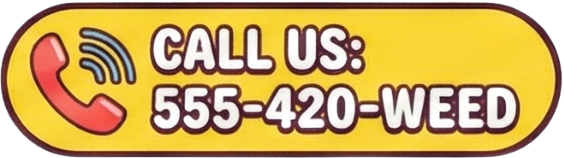
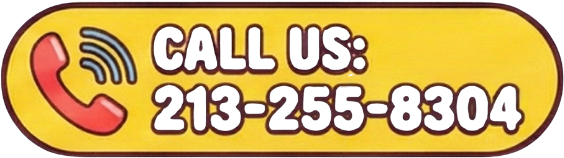
feat: update product prices and add SEO metadata
- Add new call2.png image asset
- Update prices for multiple products across categories
- Add comprehensive SEO metadata including OpenGraph and Twitter cards
- Update product names and availability status

diff --git a/index.html b/index.html
@@ -3,8 +3,38 @@
 <head>
     <meta charset="UTF-8">
     <meta name="viewport" content="width=device-width, initial-scale=1.0">
+
     <title>HAHA Bodega | Rare Products and Goods</title>
-    
+    <meta name="description" content="HAHA Bodega offers rare products and goods for adults 21+. Explore our menus and featured items." />
+    <link rel="canonical" href="https://hahabodega.com/" />
+    <meta name="robots" content="index,follow" />
+    <meta name="referrer" content="strict-origin-when-cross-origin" />
+    <meta name="theme-color" content="#0b1220" />
+
+    <meta property="og:type" content="website" />
+    <meta property="og:site_name" content="HAHA Bodega" />
+    <meta property="og:title" content="HAHA Bodega | Rare Products and Goods" />
+    <meta property="og:description" content="Rare products and goods for adults 21+. Explore menus and featured items at HAHA Bodega." />
+    <meta property="og:url" content="https://hahabodega.com/" />
+    <meta property="og:image" content="https://hahabodega.com/assets/images/logo2.png" />
+
+    <meta name="twitter:card" content="summary_large_image" />
+    <meta name="twitter:title" content="HAHA Bodega | Rare Products and Goods" />
+    <meta name="twitter:description" content="Rare products and goods for adults 21+. Explore menus and featured items at HAHA Bodega." />
+    <meta name="twitter:image" content="https://hahabodega.com/assets/images/logo2.png" />
+
+    <script type="application/ld+json">
+        {
+            "@context": "https://schema.org",
+            "@type": "Organization",
+            "name": "HAHA Bodega",
+            "url": "https://hahabodega.com/",
+            "logo": "https://hahabodega.com/assets/images/logo2.png"
+        }
+    </script>
+
+    <link rel="preconnect" href="https://fonts.googleapis.com">
+    <link rel="preconnect" href="https://fonts.gstatic.com" crossorigin>
     <link href="https://fonts.googleapis.com/css2?family=Chewy&family=Fredoka:wght@400;600&display=swap" rel="stylesheet">
     <link href="https://cdn.jsdelivr.net/npm/bootstrap@5.3.0/dist/css/bootstrap.min.css" rel="stylesheet">
     <link rel="stylesheet" href="https://cdnjs.cloudflare.com/ajax/libs/font-awesome/6.4.0/css/all.min.css">
@@ -124,7 +154,7 @@
                             <h4>Bluey Vuitton <span class="badge badge-indica">Crimson + Clover</span></h4>
                             <div class="product-meta">3.5g Dried Mushrooms</div>
                         </div>
-                        <div class="product-price">30</div>
+                        <div class="product-price">50</div>
                     </div>
 
                     <div class="product-item">
@@ -132,7 +162,7 @@
                             <h4>YETIS <span class="badge badge-indica">Crimson + Clover</span></h4>
                             <div class="product-meta">3.5g Dried Mushrooms</div>
                         </div>
-                        <div class="product-price">30</div>
+                        <div class="product-price">50</div>
                     </div>
 
                     <div class="product-item">
@@ -140,7 +170,7 @@
                             <h4>Microdose Capsules <span class="badge badge-hybrid">Crimson + Clover</span></h4>
                             <div class="product-meta">10 pcs (200mg ea)</div>
                         </div>
-                        <div class="product-price">30</div>
+                        <div class="product-price">50</div>
                     </div>
 
                     
@@ -176,33 +206,47 @@
                             </thead>
                             <tbody>
                                 <tr>
+                                    <td class="fw-bold text-start">Super Gelato</td>
+                                    <td class="flower-price">40</td>
+                                    <td class="flower-price">60</td>
+                                    <td class="flower-price">130</td>
+                                    <td class="flower-price">250</td>
+                                </tr>
+                                <tr>
+                                    <td class="fw-bold text-start">Vanilla Creamer</td>
+                                    <td class="flower-price">40</td>
+                                    <td class="flower-price">60</td>
+                                    <td class="flower-price">130</td>
+                                    <td class="flower-price">250</td>
+                                </tr>
+                                <tr>
+                                    <td class="fw-bold text-start">Blue Nerds</td>
+                                    <td class="flower-price">40</td>
+                                    <td class="flower-price">60</td>
+                                    <td class="flower-price">130</td>
+                                    <td class="flower-price">250</td>
+                                </tr>
+                                <tr>
+                                    <td class="fw-bold text-start">Von Dutch</td>
+                                    <td class="flower-price">40</td>
+                                    <td class="flower-price">60</td>
+                                    <td class="flower-price">130</td>
+                                    <td class="flower-price">250</td>
+                                <tr>
                                     <td class="fw-bold text-start">Pink Gelato</td>
                                     <td class="flower-price">40</td>
                                     <td class="flower-price">60</td>
-                                    <td class="flower-price">110</td>
-                                    <td class="flower-price">200</td>
+                                    <td class="flower-price">130</td>
+                                    <td class="flower-price">250</td>
                                 </tr>
                                 <tr>
-                                    <td class="fw-bold text-start">Bubble Gum Gelato</td>
+                                    <td class="fw-bold text-start">King Gelato OG</td>
                                     <td class="flower-price">40</td>
                                     <td class="flower-price">60</td>
-                                    <td class="flower-price">110</td>
-                                    <td class="flower-price">200</td>
+                                    <td class="flower-price">130</td>
+                                    <td class="flower-price">250</td>
                                 </tr>
-                                <tr>
-                                    <td class="fw-bold text-start">Louis 13th OG</td>
-                                    <td class="flower-price">40</td>
-                                    <td class="flower-price">60</td>
-                                    <td class="flower-price">110</td>
-                                    <td class="flower-price">200</td>
-                                </tr>
-                                <tr>
-                                    <td class="fw-bold text-start">Super Duper Lemon Cherry</td>
-                                    <td class="flower-price">40</td>
-                                    <td class="flower-price">60</td>
-                                    <td class="flower-price">110</td>
-                                    <td class="flower-price">200</td>
-                                </tr>
+                                
                             </tbody>
                         </table>
                     </div>
@@ -223,30 +267,37 @@
                                 <tr>
                                     <td class="fw-bold text-start">Black Runtz</td>
                                     <td class="flower-price">30</td>
-                                    <td class="flower-price">40</td>
-                                    <td class="flower-price">70</td>
-                                    <td class="flower-price">120</td>
+                                    <td class="flower-price">50</td>
+                                    <td class="flower-price">80</td>
+                                    <td class="flower-price">150</td>
                                 </tr>
                                 <tr>
                                     <td class="fw-bold text-start">Gushers</td>
-                                    <td class="flower-price">30</td>
-                                    <td class="flower-price">40</td>
-                                    <td class="flower-price">70</td>
-                                    <td class="flower-price">120</td>
+                                   <td class="flower-price">30</td>
+                                    <td class="flower-price">50</td>
+                                    <td class="flower-price">80</td>
+                                    <td class="flower-price">150</td>
                                 </tr>
                                 <tr>
                                     <td class="fw-bold text-start">Lemon Cherry Gelato</td>
                                     <td class="flower-price">30</td>
-                                    <td class="flower-price">40</td>
-                                    <td class="flower-price">70</td>
-                                    <td class="flower-price">120</td>
+                                    <td class="flower-price">50</td>
+                                    <td class="flower-price">80</td>
+                                    <td class="flower-price">150</td>
                                 </tr>
                                 <tr>
                                     <td class="fw-bold text-start">Skywalker OG</td>
                                     <td class="flower-price">30</td>
-                                    <td class="flower-price">40</td>
-                                    <td class="flower-price">70</td>
-                                    <td class="flower-price">120</td>
+                                    <td class="flower-price">50</td>
+                                    <td class="flower-price">80</td>
+                                    <td class="flower-price">150</td>
+                                </tr>
+                                <tr>
+                                    <td class="fw-bold text-start">Creamsicle (smalls)</td>
+                                    <td class="flower-price">30</td>
+                                    <td class="flower-price">50</td>
+                                    <td class="flower-price">80</td>
+                                    <td class="flower-price">150</td>
                                 </tr>
                             </tbody>
                         </table>
@@ -292,7 +343,7 @@
                                 </ul>
                             </div>
                         </div>
-                        <div class="product-price">40</div>
+                        <div class="product-price">60</div>
                     </div>
 
                 </div>
@@ -332,7 +383,7 @@
                             </div>
                         </div>
                         
-                        <div class="product-price">40</div>
+                        <div class="product-price">60</div>
                     </div>
 
                     <div class="product-item">
@@ -340,7 +391,7 @@
                             <h4>Happy Caps <span class="badge badge-best">Capsules</span></h4>
                             <div class="product-meta">Pack</div>
                         </div>
-                        <div class="product-price">30</div>
+                        <div class="product-price">Sold Out</div>
                     </div>
 
                 </div>
